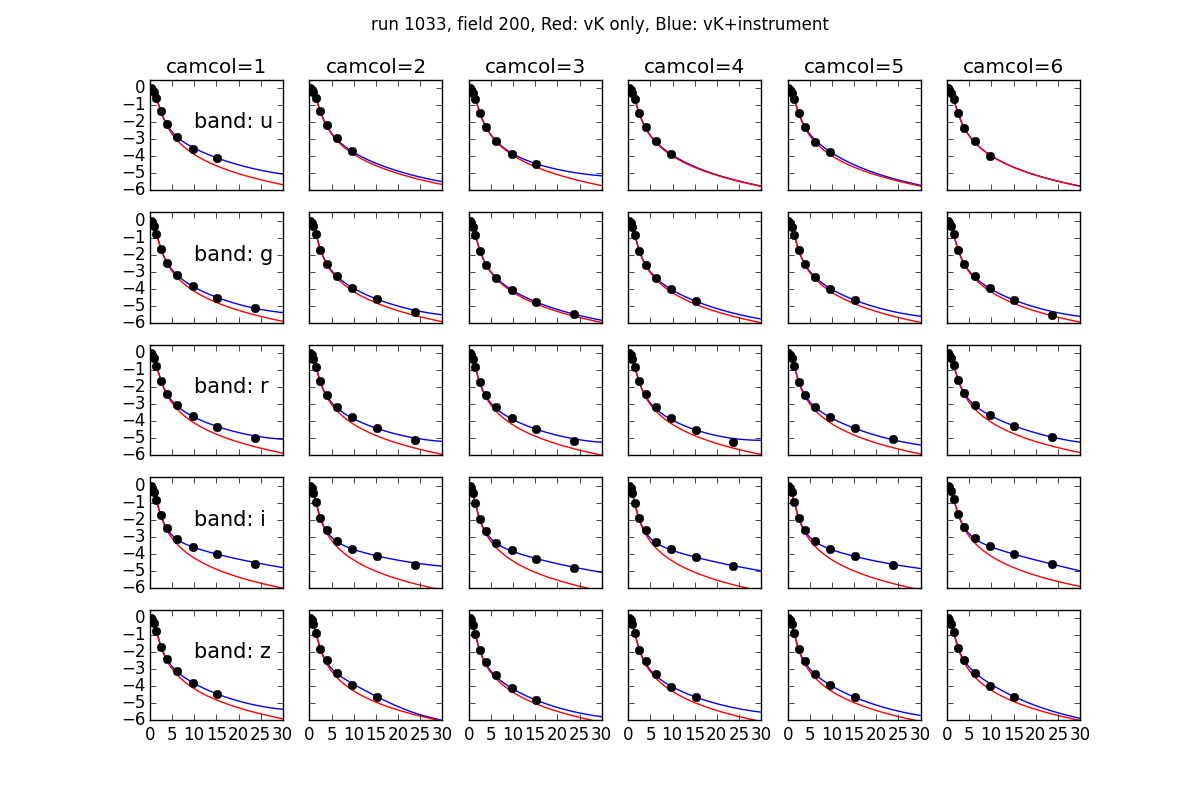
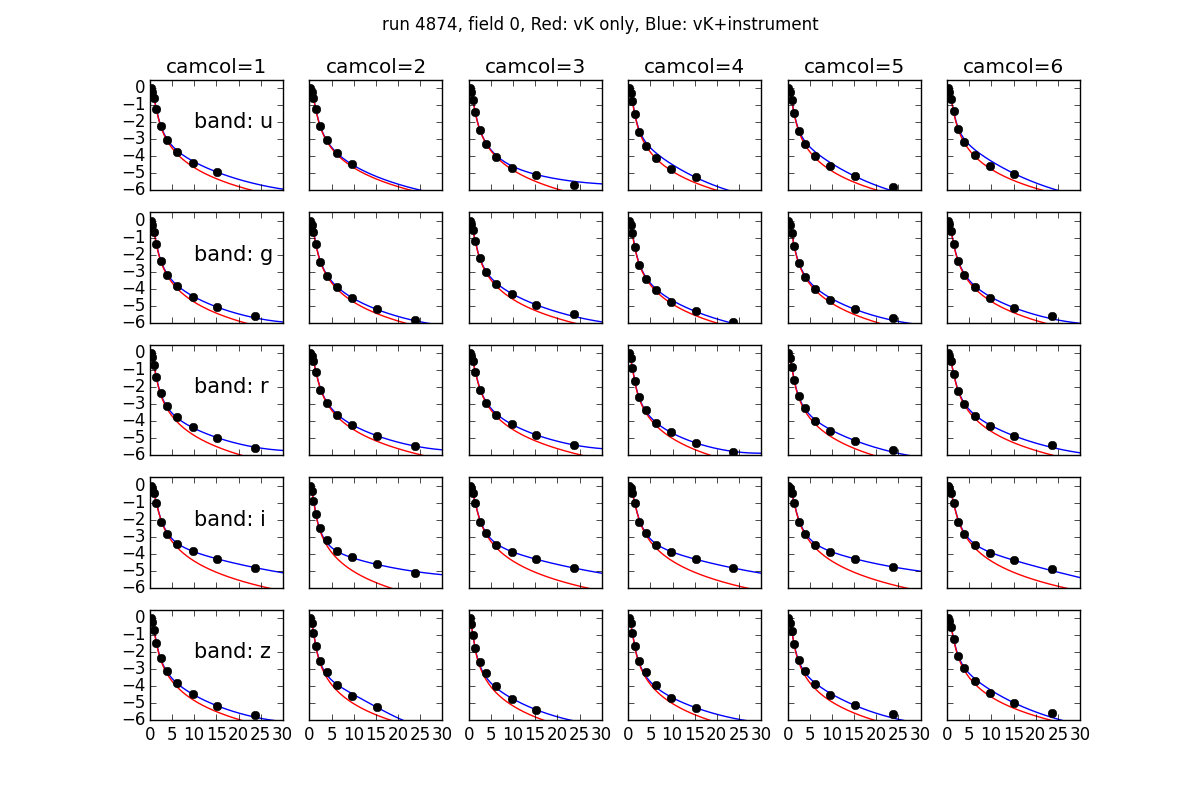
fwhm_lambda.py: adapt to newly added column \eta

diff --git a/PSFprofile.tex b/PSFprofile.tex
@@ -1,6 +1,55 @@
 
 %  \section{The PSF profile analysis}
 
+Since the 6-parameter PSF fits was adopted by the SDSS processing
+pipeline, significant progress has been made in validating the von
+Karman model of the atmosphere and measuring the associated outer
+scale. See, for example, \cite{Tokovinin2002},
+\cite{Boccas2004}, and \cite{MartinezMessenger}.
+In this section, we describe our 2-parameter fits to the SDSS PSF
+profiles using the von Karman atmosphere model.
+
+Our fits to each PSF profile is a 2-step process. First we fit the
+measured PSF profile to a von Karman PSF, with only one free parameter -
+the FWHM of the von Karman profile. Although in most cases, the fitted
+curve agrees with the input data points very well, better than the
+original 6-parameter double-Gaussian fit, it doesn't always describe
+the PSF tail beyond $\sim 15$ arcsec radius. This is obvious, because
+it is known that the PSF tails in the optical bands can be quite
+different due to the properties of the CCDs.
+Therefore, in the second step of our PSF modeling, we introduce an
+empirical instrument PSF, so that the observed PSF can be expressed as
+a convolution of the atmosphere, represented by the von Karman, and
+the instrument PSF,
+
+\begin{equation}
+        PSF = vK (FWHM) \otimes PSF_{inst},
+\end{equation} 
+where
+\begin{equation}
+        PSF_{inst} = \exp(-\frac{r^2}{2\sigma^2}) + 10^{\eta(ar^2+br+c)}.
+\label{eq:psfinst}
+\end{equation} 
+Because the shape of the instrument PSF tail should not vary with
+time, the parameters $a$, $b$, and $c$ in Eq.~(\ref{eq:psfinst}) are
+fixed for each band-camera-column combination.
+Even though this second fit involves a 2-dimensional convolution,
+there is only one free parameter in the fit - 
+$\eta$, the normalization of the instrument PSF tail.
+Each two-step PSF fit can be done in a few seconds.
+
+%o. keep 4 data points only
+%o. not using r0 as parameter
+%o. normalization to 1.
+%o. give tailPar?
+
+
+Why is SDSS PSF different for the $i$ band? The $i$ band psf has ``stronger tails''
+becuse of scattering in the CCD.  The Si is transparent at long $i$-band wavelengths 
+so light goes all the way through the chip and is reflected off the solder, and passes 
+back up through the Si. This effect is not visible in the $z$ band because in this case
+thick front-side chips are used (in all other bands, thin back-side chips are used). 
+
 Compare to SDSS, emphasize superiority of 1 parameter vs. 6 parameters fit
 
 Discuss profile shape stability when the seeing is rapidly  changing 
@@ -8,9 +57,10 @@ Discuss profile shape stability when the seeing is rapidly  changing
 \begin{figure}
 \centering
 \includegraphics[width=0.9\textwidth]{FIGURES/psffit.png}
-\caption{Fit to the PSF profiles from run 1033, field 200. Red curves
+\caption{Fit to the PSF profiles from run 4874, field 0. Red curves
   are results of 1-parameter von Karman fits. Blue curves are red
   curve convolved with the instrument PSF, where the scaling factor on
-  the tail component is allowed to vary.
+  the tail component is allowed to vary. Note that the y-axis is on
+  logorithm scale.
 \label{fig:psffit}}
 \end{figure}

diff --git a/intro.tex b/intro.tex
@@ -15,7 +15,7 @@ Although turbulence is a complex physical phenomenon, the basic properties of th
 seeing can be predicted from first principles (\cite{Racine2009}). The Von Karman turbulence theory, 
 an extension of the Komogorov theory that introduces a finite size for turbulent eddies (the so-called
 outer scale parameter), quantitatively predicts the seeing profile and the variation of seeing
-with wavelength (\cite{Tokovinin2002, MartinezMessenger}). Therefore, seeing measurements can be used to test the theory and estimate
+with wavelength (\cite{vk1, vk2}). Therefore, seeing measurements can be used to test the theory and estimate
 the relevant physical parameters. 
 
 The Sloan Digital Sky Survey (SDSS, \citealt{York2000}), a large-area multi-bandpass sky survey

diff --git a/FWHManalysis.tex b/FWHManalysis.tex
@@ -13,17 +13,10 @@ about $\alpha$ distribution?
 \begin{figure}
 \centering
 \includegraphics[width=0.9\textwidth]{FIGURES/fwhm_lambda.png}
-\caption{FWHM as functions of wavelength for run 3427.
+\caption{FWHM as functions of wavelength for run 4874.
 \label{fig:fwhm_lambda}}
 \end{figure}
 
-
-
-Why is SDSS PSF different for the $i$ band? The $i$ band psf has ``stronger tails''
-becuse of scattering in the CCD.  The Si is transparent at long $i$-band wavelengths 
-so light goes all the way through the chip and is reflected off the solder, and passes 
-back up through the Si. This effect is not visible in the $z$ band because in this case
-thick front-side chips are used (in all other bands, thin back-side chips are used). 
 
 
 \subsection{Angular structure function} 

diff --git a/analysis/source/fwhm_lambda.py b/analysis/source/fwhm_lambda.py
@@ -65,11 +65,11 @@ def main():
         txtdata = txtdata[idx, :]
         if args.doubleG:
             fwhmStr = 'fwhm2G'
-            fwhm = txtdata[:, 4]
+            fwhm = txtdata[:, 5]
         else:
             fwhmStr = 'fwhm'
             fwhm = txtdata[:, 3] / 1.222  # convert FWHMeff into FWHM
-        airmass = txtdata[:, 5]
+        airmass = txtdata[:, 6]
         fwhm = fwhm/airmass**0.6
         startfield = args.startfield
         endfield = np.uint16(np.max(txtdata[:, 0]))
